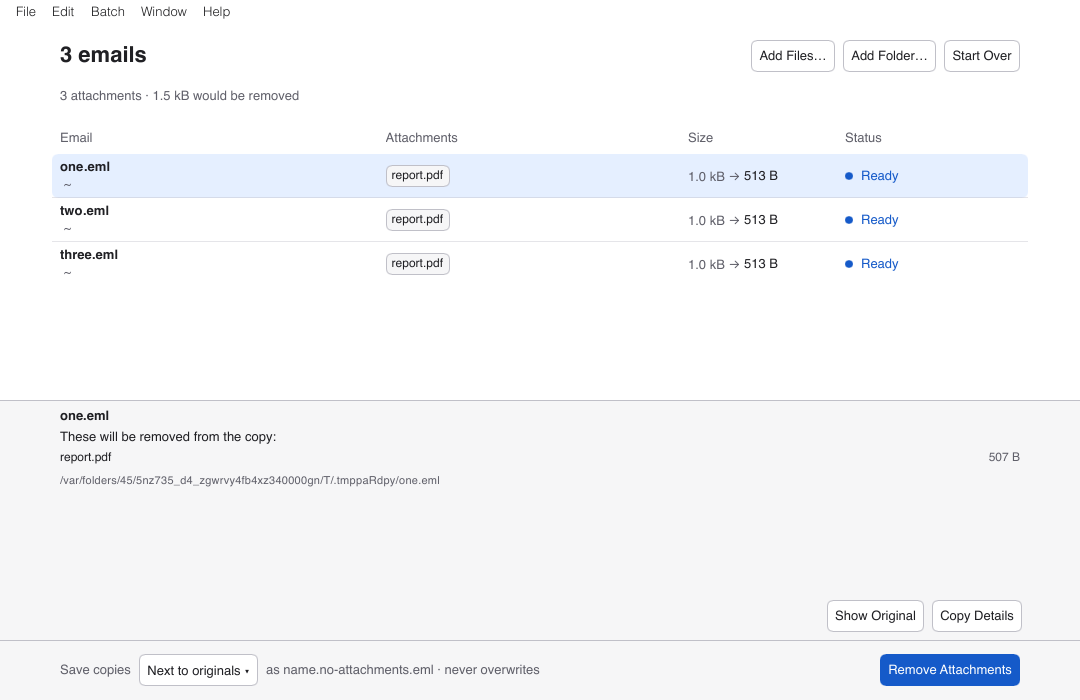
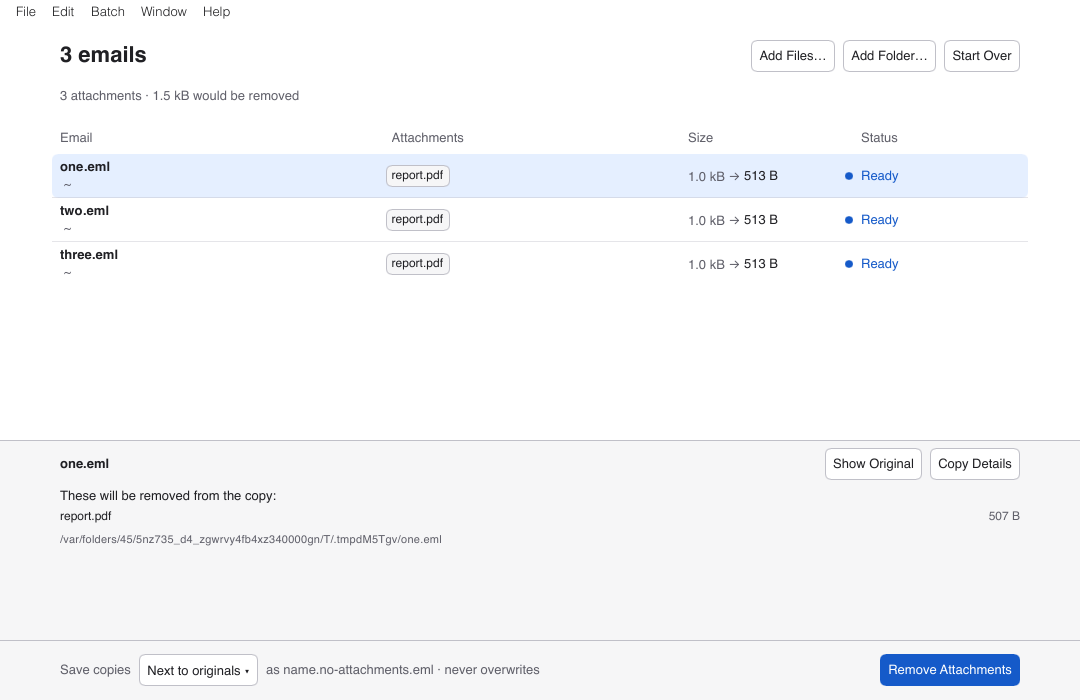
fix: keep detail actions compact and centralize UI geometry
WP3: actions share the detail title line; pane caps at 30 percent/200 px. Align all column headers, including the additionally verified 6 px attachment-chip inset. Theme owns lengths and editing is projected once. Explicit viewport placement prevents a Slint constraint cycle without a maximum-height sentinel. V5/V6/V7 controls fail and restored acceptance passes (81 plus explicit capture test). Recapture toolkit and six native client areas at PR75 sizes; exclude OS chrome to omit the capture badge. Appearance restored.

diff --git a/crates/eml-gui/tests/desktop/acceptance.rs b/crates/eml-gui/tests/desktop/acceptance.rs
@@ -2879,13 +2879,55 @@ fn v5_detail_actions_share_title_line() {
     ui.window().set_size(slint::LogicalSize::new(1080., 700.));
     ui.invoke_select_email(ui.get_rows().row_data(0).unwrap().key);
     mock_elapsed_time(Duration::from_millis(1));
-    let name = label(&ui, "one.eml");
-    let action = label(&ui, "Show Original");
+    let mut detail = ui.get_detail();
+    let part = detail.parts.row_data(0).unwrap();
+    let mut heights = Vec::new();
+    for count in [0, 1, 5] {
+        detail.parts = Rc::new(slint::VecModel::from(vec![part.clone(); count])).into();
+        ui.set_detail(detail.clone());
+        mock_elapsed_time(Duration::from_millis(1));
+        let name = label(&ui, "one.eml");
+        for action in ["Show Copy", "Show Original", "Copy Details"] {
+            assert!(
+                (name.absolute_position().y - label(&ui, action).absolute_position().y).abs() <= 1.,
+                "{action} is not beside the name"
+            );
+        }
+        let viewport = label(&ui, "Emails")
+            .query_descendants()
+            .match_type_name("Flickable")
+            .find_first()
+            .unwrap();
+        heights.push(viewport.size().height);
+    }
     assert!(
-        (name.absolute_position().y - action.absolute_position().y).abs() <= 1.,
-        "title={:?}, action={:?}",
-        name.absolute_position(),
-        action.absolute_position()
+        heights.iter().all(|h| (h - heights[0]).abs() <= 1.),
+        "{heights:?}"
+    );
+    ui.window().set_size(slint::LogicalSize::new(760., 520.));
+    mock_elapsed_time(Duration::from_millis(1));
+    let list = label(&ui, "Emails");
+    let viewport = list
+        .query_descendants()
+        .match_type_name("Flickable")
+        .find_first()
+        .unwrap();
+    let top = viewport.absolute_position().y;
+    let bottom = top + viewport.size().height;
+    let complete = list
+        .query_descendants()
+        .find_all()
+        .into_iter()
+        .filter(|e| {
+            e.accessible_role() == Some(i_slint_backend_testing::AccessibleRole::ListItem)
+                && e.absolute_position().y >= top - 0.1
+                && e.absolute_position().y + e.size().height <= bottom + 0.1
+        })
+        .count();
+    assert!(
+        complete >= 3,
+        "Only {complete} complete rows in {:?}",
+        viewport.size()
     );
 }
 
@@ -2896,14 +2938,21 @@ fn v6_status_header_aligns_with_text() {
     let c = done(root.path(), &["one.eml"]);
     let ui = c.window();
     mock_elapsed_time(Duration::from_millis(1));
-    let header = label(&ui, "Status");
-    let cell = label(&ui, "Copy saved");
-    assert!(
-        (header.absolute_position().x - cell.absolute_position().x).abs() <= 1.,
-        "header={:?}, cell={:?}",
-        header.absolute_position(),
-        cell.absolute_position()
-    );
+    for (heading, text) in [
+        ("Email", "one"),
+        ("Attachments", "report.pdf"),
+        ("Size", "1.0 kB → 513 B"),
+        ("Status", "Copy saved"),
+    ] {
+        let header = label(&ui, heading);
+        let cell = label(&ui, text);
+        assert!(
+            (header.absolute_position().x - cell.absolute_position().x).abs() <= 1.,
+            "{heading}: header={:?}, cell={:?}",
+            header.absolute_position(),
+            cell.absolute_position()
+        );
+    }
 }
 
 #[test]

diff --git a/crates/eml-gui/tests/desktop/source_guards.rs b/crates/eml-gui/tests/desktop/source_guards.rs
@@ -180,12 +180,13 @@ fn visual_literals(node: &SyntaxNode) -> Vec<String> {
                     parent.kind() == SyntaxKind::QualifiedName && parent.text() == item.text()
                 }));
         let size = item.kind() == SyntaxKind::NumberLiteral
-            && item.parent_ancestors().any(|parent| {
-                parent.kind() == SyntaxKind::Binding
-                    && parent
-                        .first_token()
-                        .is_some_and(|name| matches!(name.text(), "font-size" | "border-radius"))
-            });
+            && ((item.text().ends_with("px") && !matches!(item.text(), "0px" | "1px"))
+                || item.parent_ancestors().any(|parent| {
+                    parent.kind() == SyntaxKind::Binding
+                        && parent.first_token().is_some_and(|name| {
+                            matches!(name.text(), "font-size" | "border-radius")
+                        })
+                }));
         if colour || size {
             found.push(item.text().to_owned());
         }
@@ -267,7 +268,8 @@ fn u4_visual_literals_are_rejected() {
                 .node
                 .descendants_with_tokens()
                 .filter_map(|item| item.into_token())
-                .any(|token| token.kind() == SyntaxKind::Identifier && token.text() == "ui-size")
+                .any(|token| token.kind() == SyntaxKind::Identifier
+                    && matches!(token.text(), "ui-size" | "UiMetrics"))
         );
         if path.file_name().unwrap() != "theme.slint" {
             assert!(
@@ -319,6 +321,7 @@ fn u1_controls_reject_comment_raw_multiline_and_macro_bypasses() {
 #[test]
 fn u4_controls_reject_expression_colours_and_comment_only_references() {
     for binding in [
+        "width: 175px;",
         "font-size: 12px;",
         "font-size: (12px);",
         "border-radius: 1px + 2px;",

diff --git a/crates/eml-gui/src/present.rs b/crates/eml-gui/src/present.rs
@@ -544,6 +544,7 @@ impl crate::DesktopController {
                 .position(|row| row.selected)
                 .map_or(-1, |i| i as i32),
             state: state.into(),
+            editing: matches!(state, State::Checking | State::Ready),
             title: header.title.into(),
             summary: header.summary.into(),
             problems: header.problems.into(),

diff --git a/docs/gui-screenshots/README.md b/docs/gui-screenshots/README.md
@@ -12,7 +12,7 @@ outcomes; they do not verify MIME classification or native operating-system UI.
 | Done | [PNG](done-light.png) | [PNG](done-dark.png) |
 
 The main images are 1080×700. [Ready at 760×520](ready-light-narrow.png) shows the
-minimum layout with Size hidden. Geometry tests separately check two visible rows,
+minimum layout with Size hidden. Geometry tests separately check three visible rows at minimum size,
 stable headers and details, aligned cells, command roles and anchored popups.
 
 Regenerate outside the merge gate:
@@ -27,9 +27,10 @@ The capture writes lossless PPMs. Convert each to PNG with, for example,
 
 ## Native app gallery
 
-These window captures show the current macOS desktop with freshly built debug
-executables. The archive gate separately verifies universal distribution binaries. Normal and minimum sizes
-refer to client areas; the native title bar adds to the outer frame (32 px on this macOS host). Full-size images capture the host’s available 1474×938 client region; the window manager constrains larger requests.
+These native captures show the macOS universal app built from the branch, with
+its production controller and bundled CLI. Images retain the complete client area
+at PR 75's sizes. OS title bars are excluded to omit the live-control sharing badge;
+application content is not retouched or scaled.
 
 | Window | Light | Dark |
 |---|---|---|
@@ -38,5 +39,5 @@ refer to client areas; the native title bar adds to the outer frame (32 px on th
 | Minimum, 760×520 client | [JPEG](manual/minimum-light.jpg) | [JPEG](manual/minimum-dark.jpg) |
 
 The selected inline-image detail includes the core warning about omitted related
-resources. Normal/minimum captures retain visible actions below the scrolling
+resources. Normal/minimum captures keep actions beside the email name above the scrolling
 details. Capture appearance and application preferences were restored afterward.

diff --git a/docs/architecture.md b/docs/architecture.md
@@ -178,9 +178,9 @@ mapping. No text-size input is exposed. The list uses fixed 44 px virtual rows,
 centred cells and separators. The header reserves a 32 px summary line even when
 there is no problems chip. Band backgrounds span the window; content stays in a
 centred column at most 980 px wide. Below 900 px the Size column and naming hint
-are hidden. The visible detail pane has a fixed preferred height of 240 px, capped
-at 40% of the window, scrolls internally and keeps its actions visible. Selecting
-another email does not resize the list. At minimum size two list rows remain
+are hidden. The visible detail pane has a fixed preferred height of 200 px, capped
+at 30% of the window, keeps its actions beside the email name and scrolls its body
+internally. Selecting another email does not resize the list. At minimum size three list rows remain
 visible, including with long details. Popups anchor to their command controls.
 Buttons, menus and controller boundaries share predicates in `actions.rs`.
 
